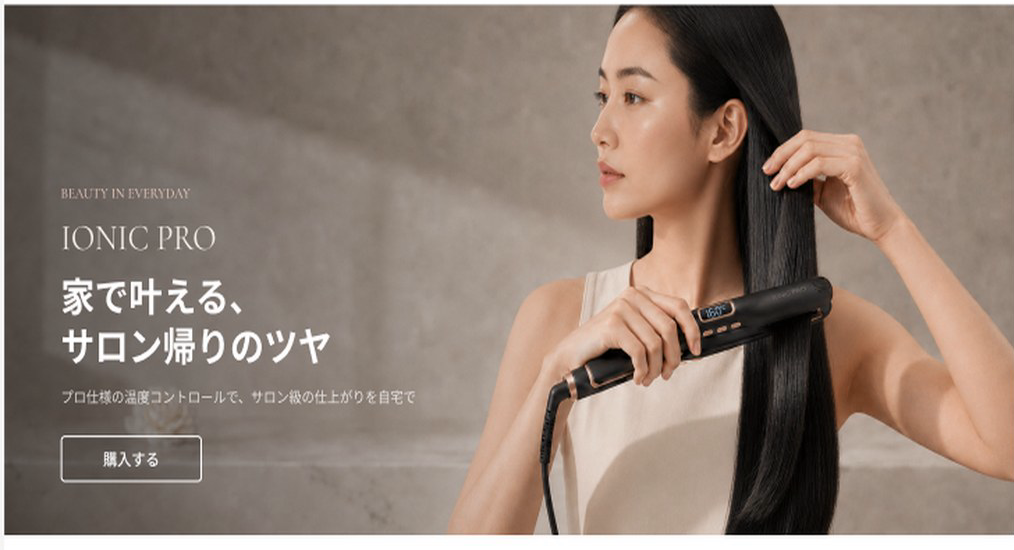
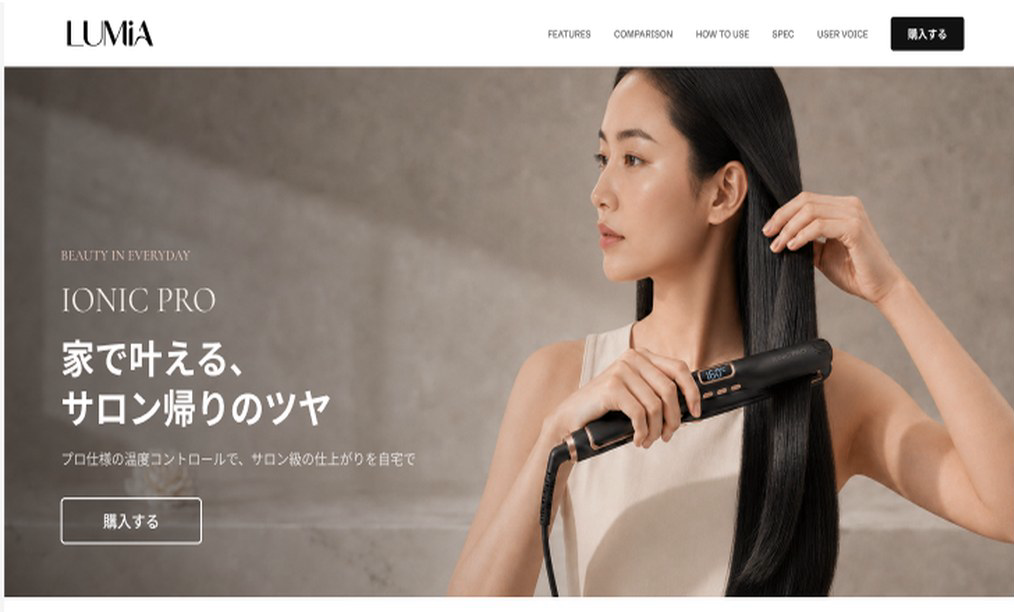
Show LUMIA site header instead of cropping it out
The user wants each Other Works card to showcase the site including
its header (as TOKINAL's card already does), not just an isolated
hero photo. Re-crop to include the LUMiA nav bar down through the
hero (still excluding the FEATURES section and side margins), and
anchor object-position: top so cover doesn't crop the logo/nav off
the top edge.

diff --git a/index.html b/index.html
@@ -157,7 +157,7 @@
       </a>
       <a class="ocard" href="#work-08" data-detail="work-08">
         <div class="ocard__image">
-          <img src="images/other-08-v2.png" alt="LUMIA / IONIC PRO ランディングページ">
+          <img src="images/other-08-v2.png" alt="LUMIA / IONIC PRO ランディングページ" style="object-position: top;">
         </div>
         <div class="ocard__body">
           <h3 class="ocard__title">LUMIA / IONIC PRO</h3>
@@ -402,7 +402,7 @@
 
     <article class="detail" id="work-08" role="dialog" aria-modal="true" aria-labelledby="work-08-title" hidden>
       <div class="detail__image">
-        <img src="images/detail-08-v2.png" alt="LUMIA / IONIC PRO ランディングページ">
+        <img src="images/detail-08-v2.png" alt="LUMIA / IONIC PRO ランディングページ" style="object-position: top;">
         <button type="button" class="detail__close" data-close aria-label="閉じる"></button>
       </div>
       <div class="detail__content">
